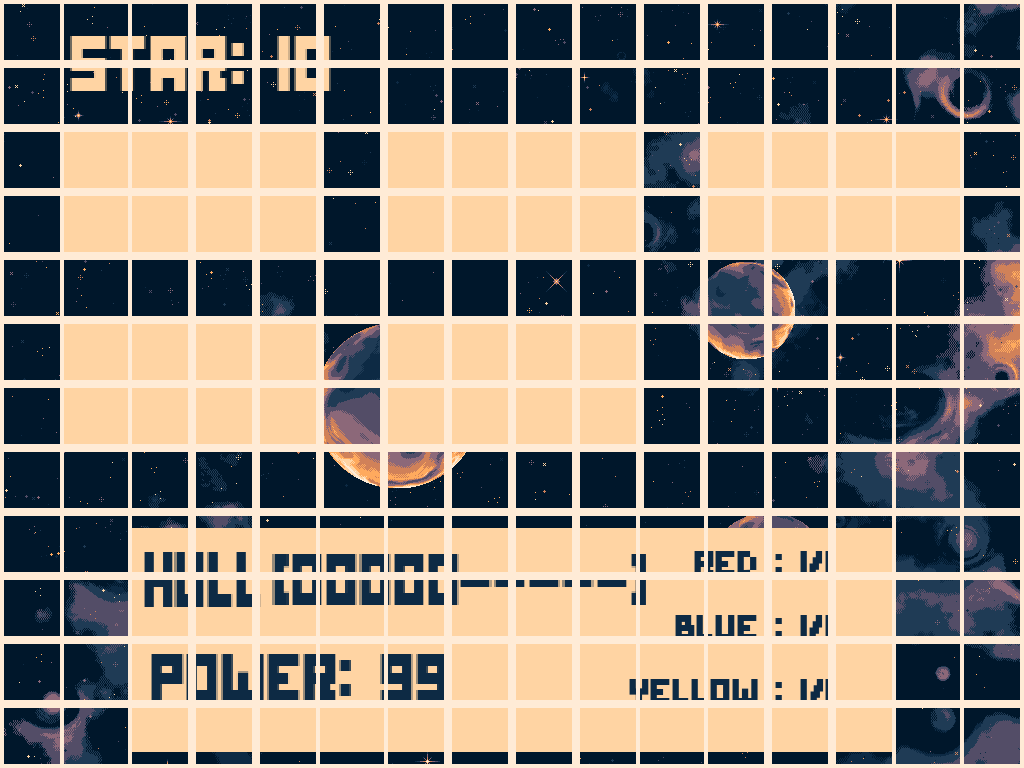
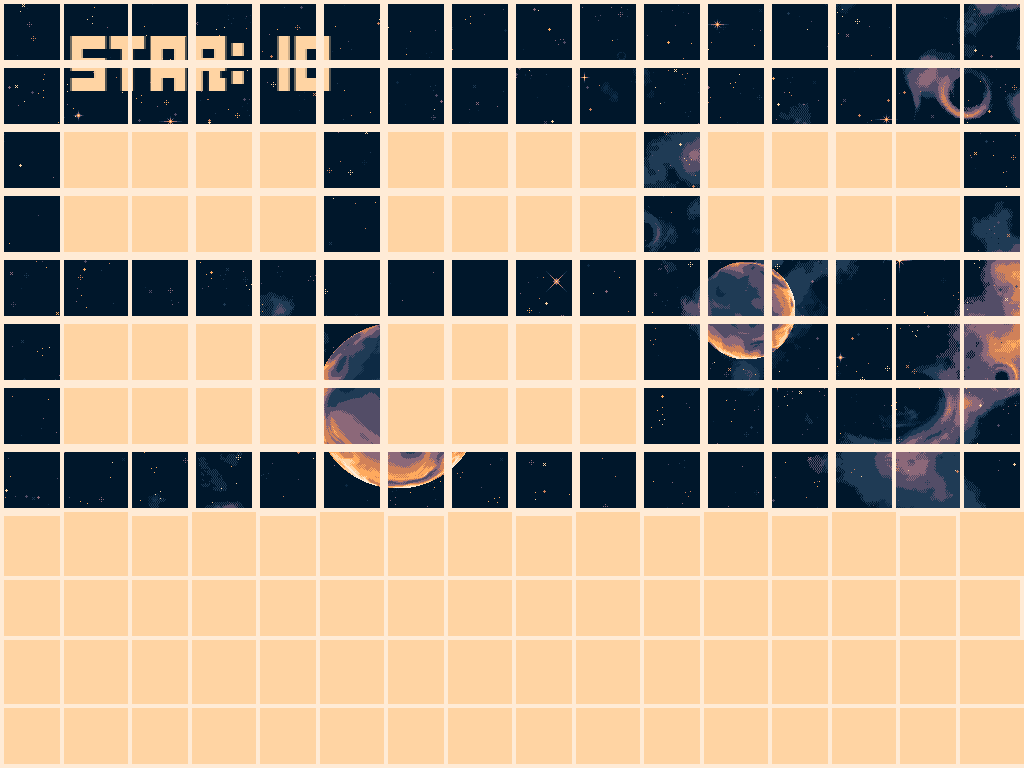
Adjust Title Screen and UI

Changed region(s): [[0.0, 0.6562, 1.0, 1.0]]

diff --git a/Real Title Menu.py b/Real Title Menu.py
@@ -53,47 +53,47 @@ darkmagenta=(139,0,139)
 purple=(98,24,245)
 textcolor=(62, 170, 174)
 outlinecolor=(140,104,121)
+selectcolor=(255, 170, 94)
 
 # Game Background
-bg = pygame.image.load("Space.png").convert()
+bg = pygame.image.load("title.png").convert()
 bg_big = pygame.transform.scale(bg, (1024, 768))
 
 # Game Font
 font = "PressStart2P.ttf"
 font = "ZF#2ndPixelus.ttf"
-font2 = "2005_iannnnnAMD.ttf"
 # Game Framerate
 clock = pygame.time.Clock()
 FPS=30
 
 def title_draw(selected):
     screen.blit(bg_big, [0, 0])
-    title=text("Galactic", font, 150, textcolor)
-    title_outline=text("Galactic", font, 150, white)
-    title2=text("Revolt", font2, 150, textcolor)
-    title2_outline=text("Revolt", font2, 150, white)
+    title=text("Galactic", font, 200, textcolor)
+    #title_outline=text("Galactic", font, 200, white)
+    title2=text("Revolt !", font, 200, textcolor)
+    #title2_outline=text("Revolt !", font, 200, white)
     if selected=="start":
-        text_start=text("START", font, 32, red)
+        text_start=text("START <<<", font, 128, selectcolor)
     else:
-        text_start = text("START", font, 32, white)
+        text_start = text("START", font, 128, white)
     if selected=="quit":
-        text_quit=text("QUIT", font, 32, red)
+        text_quit=text("QUIT <<<", font, 128, selectcolor)
     else:
-        text_quit = text("QUIT", font, 32, white)
+        text_quit = text("QUIT", font, 128, white)
         
     # Text Output
-    screen.blit(title_outline, (27, 77))
-    screen.blit(title_outline, (27, 83))
-    screen.blit(title_outline, (21, 77))
-    screen.blit(title_outline, (21, 83))
-    screen.blit(title, (24, 80))
-    screen.blit(title2_outline, (21, 143))
-    screen.blit(title2_outline, (21, 137))
-    screen.blit(title2_outline, (27, 143))
-    screen.blit(title2_outline, (27, 137))
-    screen.blit(title2, (24, 160))
-    screen.blit(text_start, (60, 300))
-    screen.blit(text_quit, (60, 360))
+    #screen.blit(title_outline, (27, 77))
+    #screen.blit(title_outline, (27, 83))
+    #screen.blit(title_outline, (21, 77))
+    #screen.blit(title_outline, (21, 83))
+    #screen.blit(title, (24, 90))
+    #screen.blit(title2_outline, (21, 163))
+    #screen.blit(title2_outline, (21, 157))
+    #screen.blit(title2_outline, (27, 163))
+    #screen.blit(title2_outline, (27, 157))
+    #screen.blit(title2, (24, 180))
+    screen.blit(text_start, (580, 400))
+    screen.blit(text_quit, (656, 480))
 
 def showstar(starnum):
     bg = pygame.transform.scale(pygame.image.load("Space.png").convert(), (1024, 768))

diff --git a/EventDB.py b/EventDB.py
@@ -225,18 +225,18 @@ def test(screen):
     
 def ship_hud2(screen, ship): #สร้างหน้าบอก Resource
     """Make Ship pygame"""
-    bg = pygame.transform.scale(pygame.image.load("Card1.png").convert(), (1024, 768))
+    bg = pygame.transform.scale(pygame.image.load("Space_Background_4.png").convert(), (1024, 768))
     screen.blit(bg, [0, 0])
-    screen.blit(text("Stage %d" %ship['current'], UIfont, 48, red1), (0, 50))
+    screen.blit(text("Stage %d" %ship['current'], UIfont, 48, white), (64, 64))
     #screen.blit(text("╔"+"═"*49+"╗", UIfont, 48, blue1), (700, 50))
-    screen.blit(text("HULL: "+("O"*ship['hull'][0])+"-"*(ship['hull'][1]-ship['hull'][0]), UIfont, 28, black), (45, 75))
-    screen.blit(text(" %02d %s " %(ship['man'], man), UIfont, 28, green), (45, 1000))
-    screen.blit(text(" %d/%d %s " %(ship['red'][0], ship['red'][1], red), UIfont, 28, black), (45, 125))
-    screen.blit(text(" %d/%d %s " %(ship['blue'][0], ship['blue'][1], blue), UIfont, 28, black), (45, 150))
-    screen.blit(text(" %d/%d %s " %(ship['yellow'][0], ship['yellow'][1], yellow), UIfont, 28, black), (512, 660))
+    screen.blit(text("HULL: "+("O"*ship['hull'][0])+"-"*(ship['hull'][1]-ship['hull'][0]), UIfont, 28, white), (128, 576))
+    screen.blit(text("%02d %s " %(ship['man'], man), UIfont, 28, green), (128, 640))
+    screen.blit(text("%d/%d %s " %(ship['red'][0], ship['red'][1], red), UIfont, 28, white), (640, 580))
+    screen.blit(text("%d/%d %s " %(ship['blue'][0], ship['blue'][1], blue), UIfont, 28, white), (640, 620))
+    screen.blit(text("%d/%d %s " %(ship['yellow'][0], ship['yellow'][1], yellow), UIfont, 28, white), (640, 660))
     #screen.blit(text("╚"+"═"*49+"╝", UIfont, 48, black), (700, 200))
     pygame.display.update()
-    time.sleep(10)
+    time.sleep(3)
 
 # def eventpress():
 #     eventpress=True

diff --git a/randomstar.py b/randomstar.py
@@ -1,0 +1,17 @@
+"""Random Star Names"""
+import random
+import string
+def random_star_name():
+    
+    #alph = ""
+    #for _ in range(4):
+        #alph += random.choice(string.ascii_letters)
+    #alph = alph.upper()
+    #num = " %d.%03d" %(random.randrange(10), random.randrange(1000))+random.choice(string.ascii_letters)
+    #return alph+num
+    name = ["numa", "preva", "kelso", "lola", "kelli", "kabo", "sere", "siz", "lak", "sof", "nod", "li", "iru", "ka"]
+    random.shuffle(name)
+    pre = (name.pop()+name.pop()).title()
+    suf = "-%02d%s" %(random.randrange(100), random.choice(string.ascii_letters))
+    return pre+suf
+print(random_star_name())
